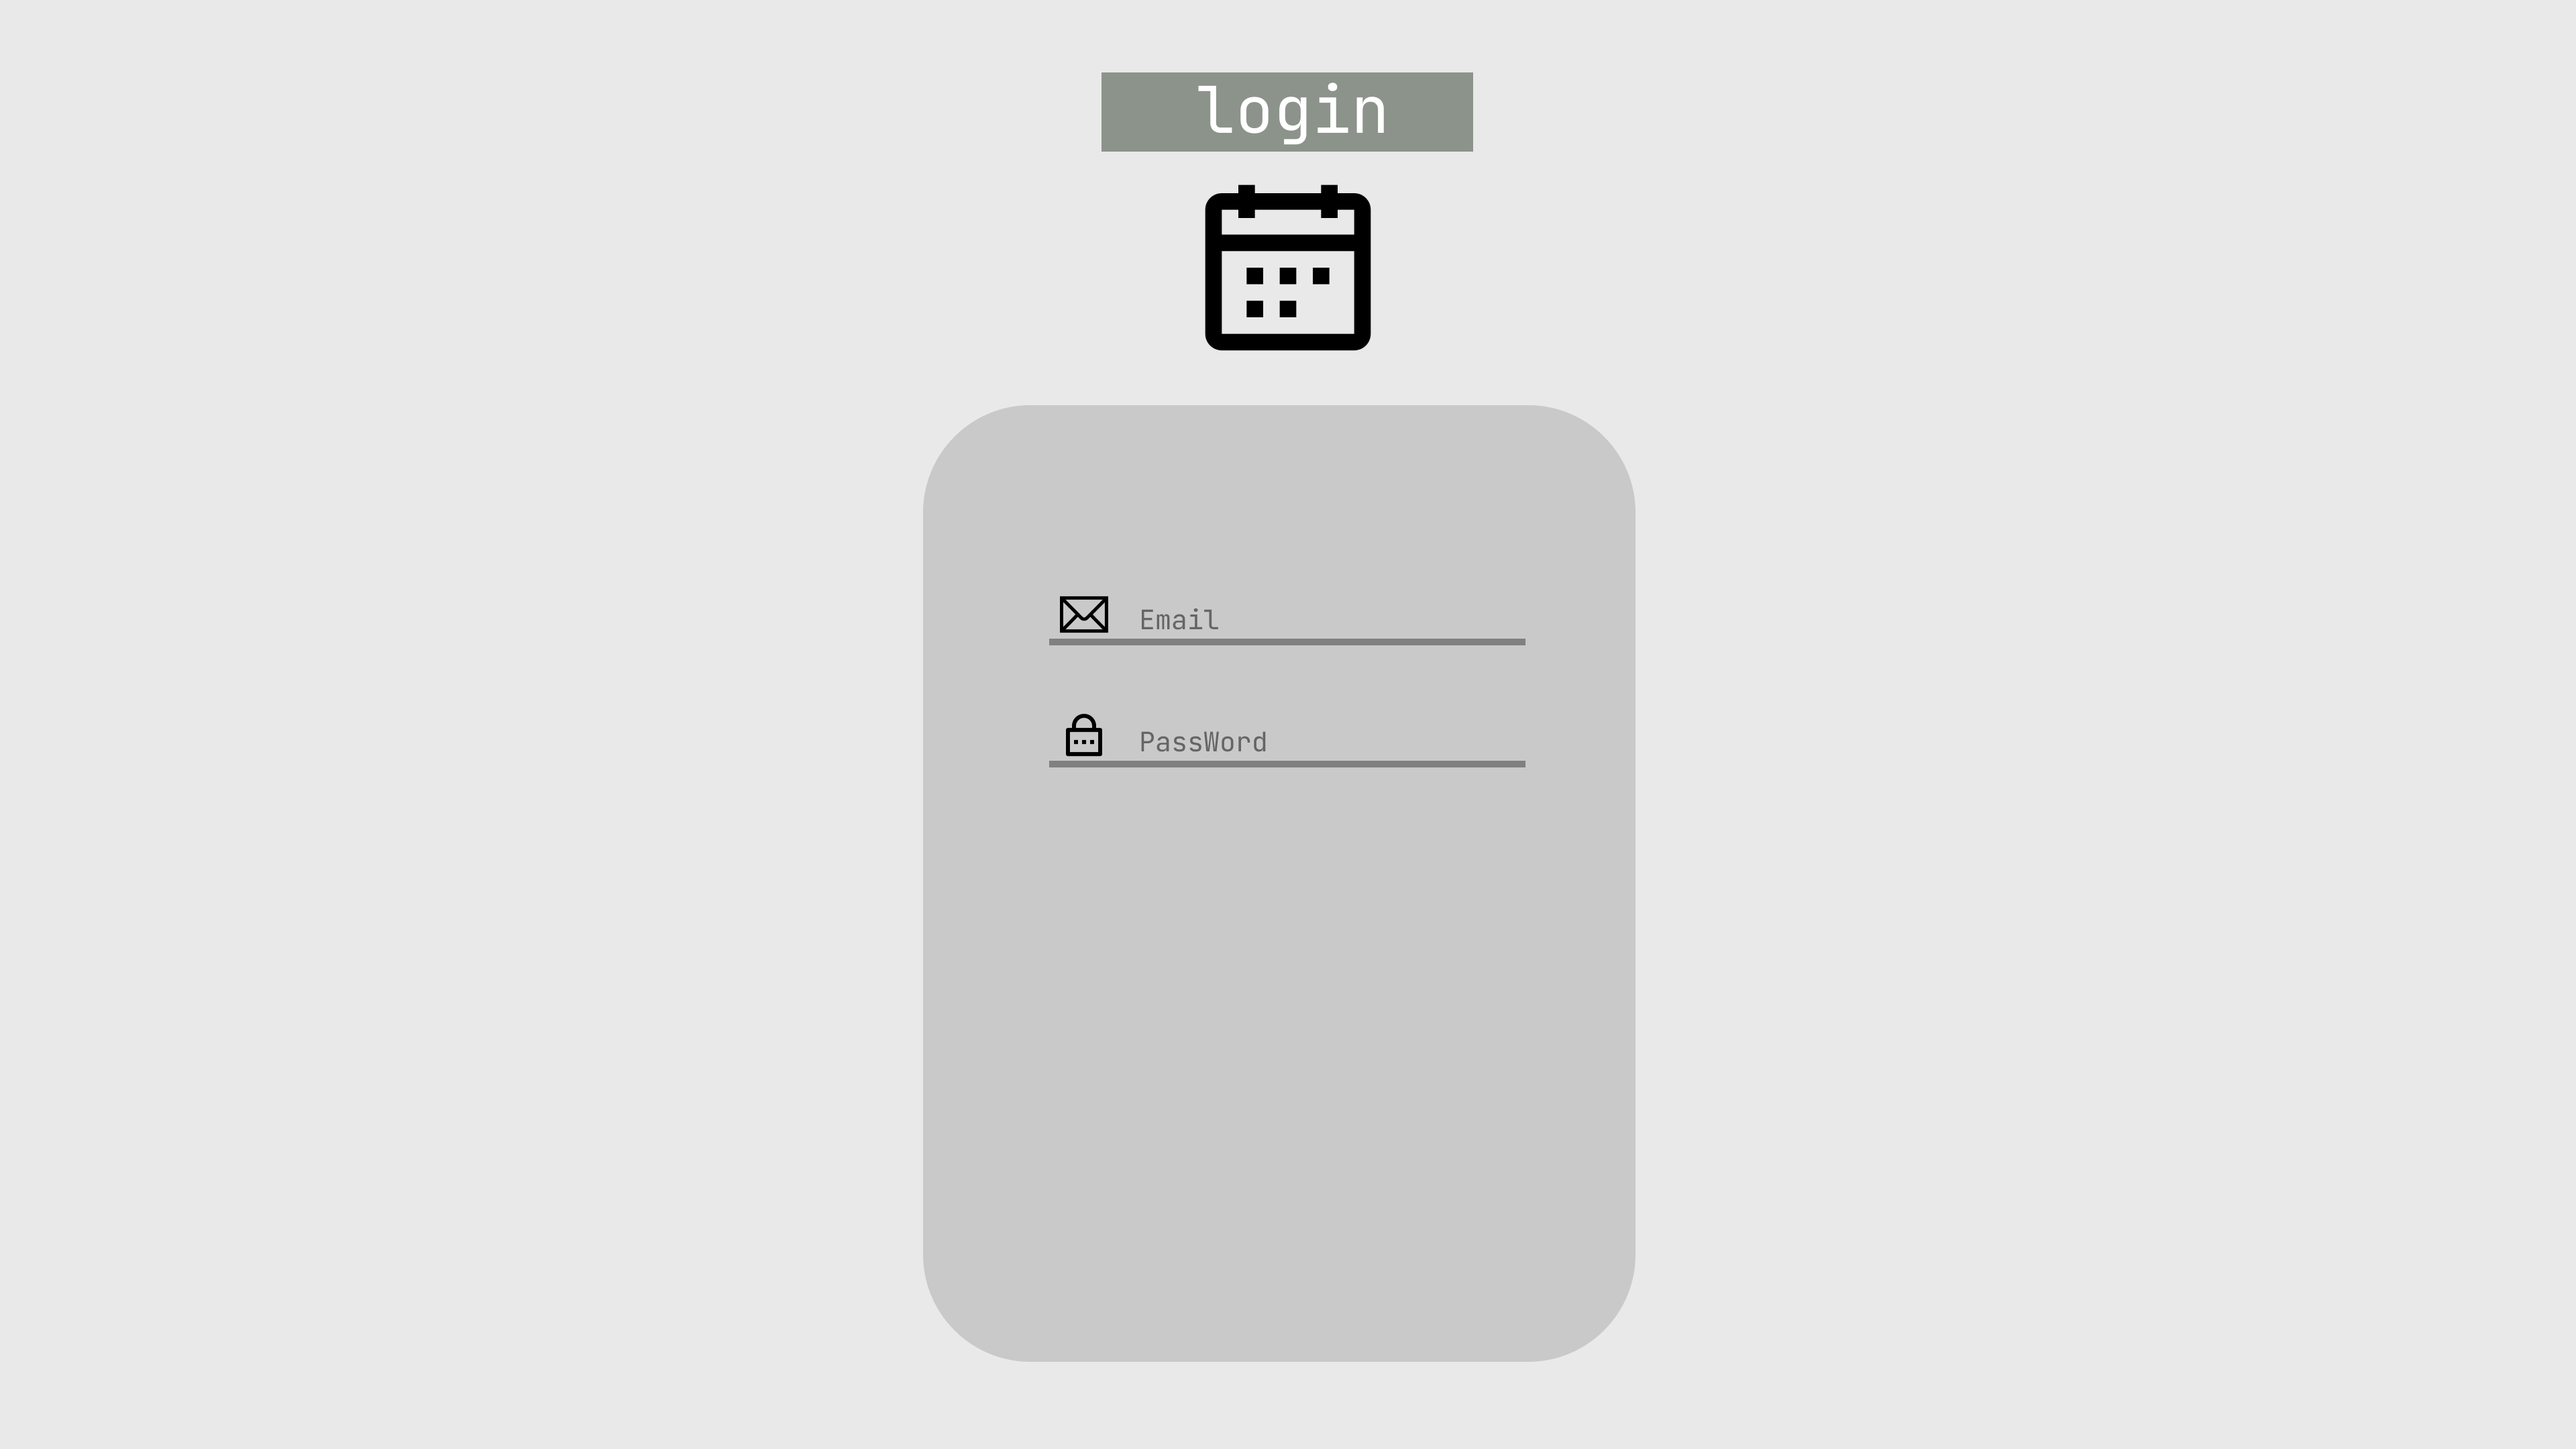
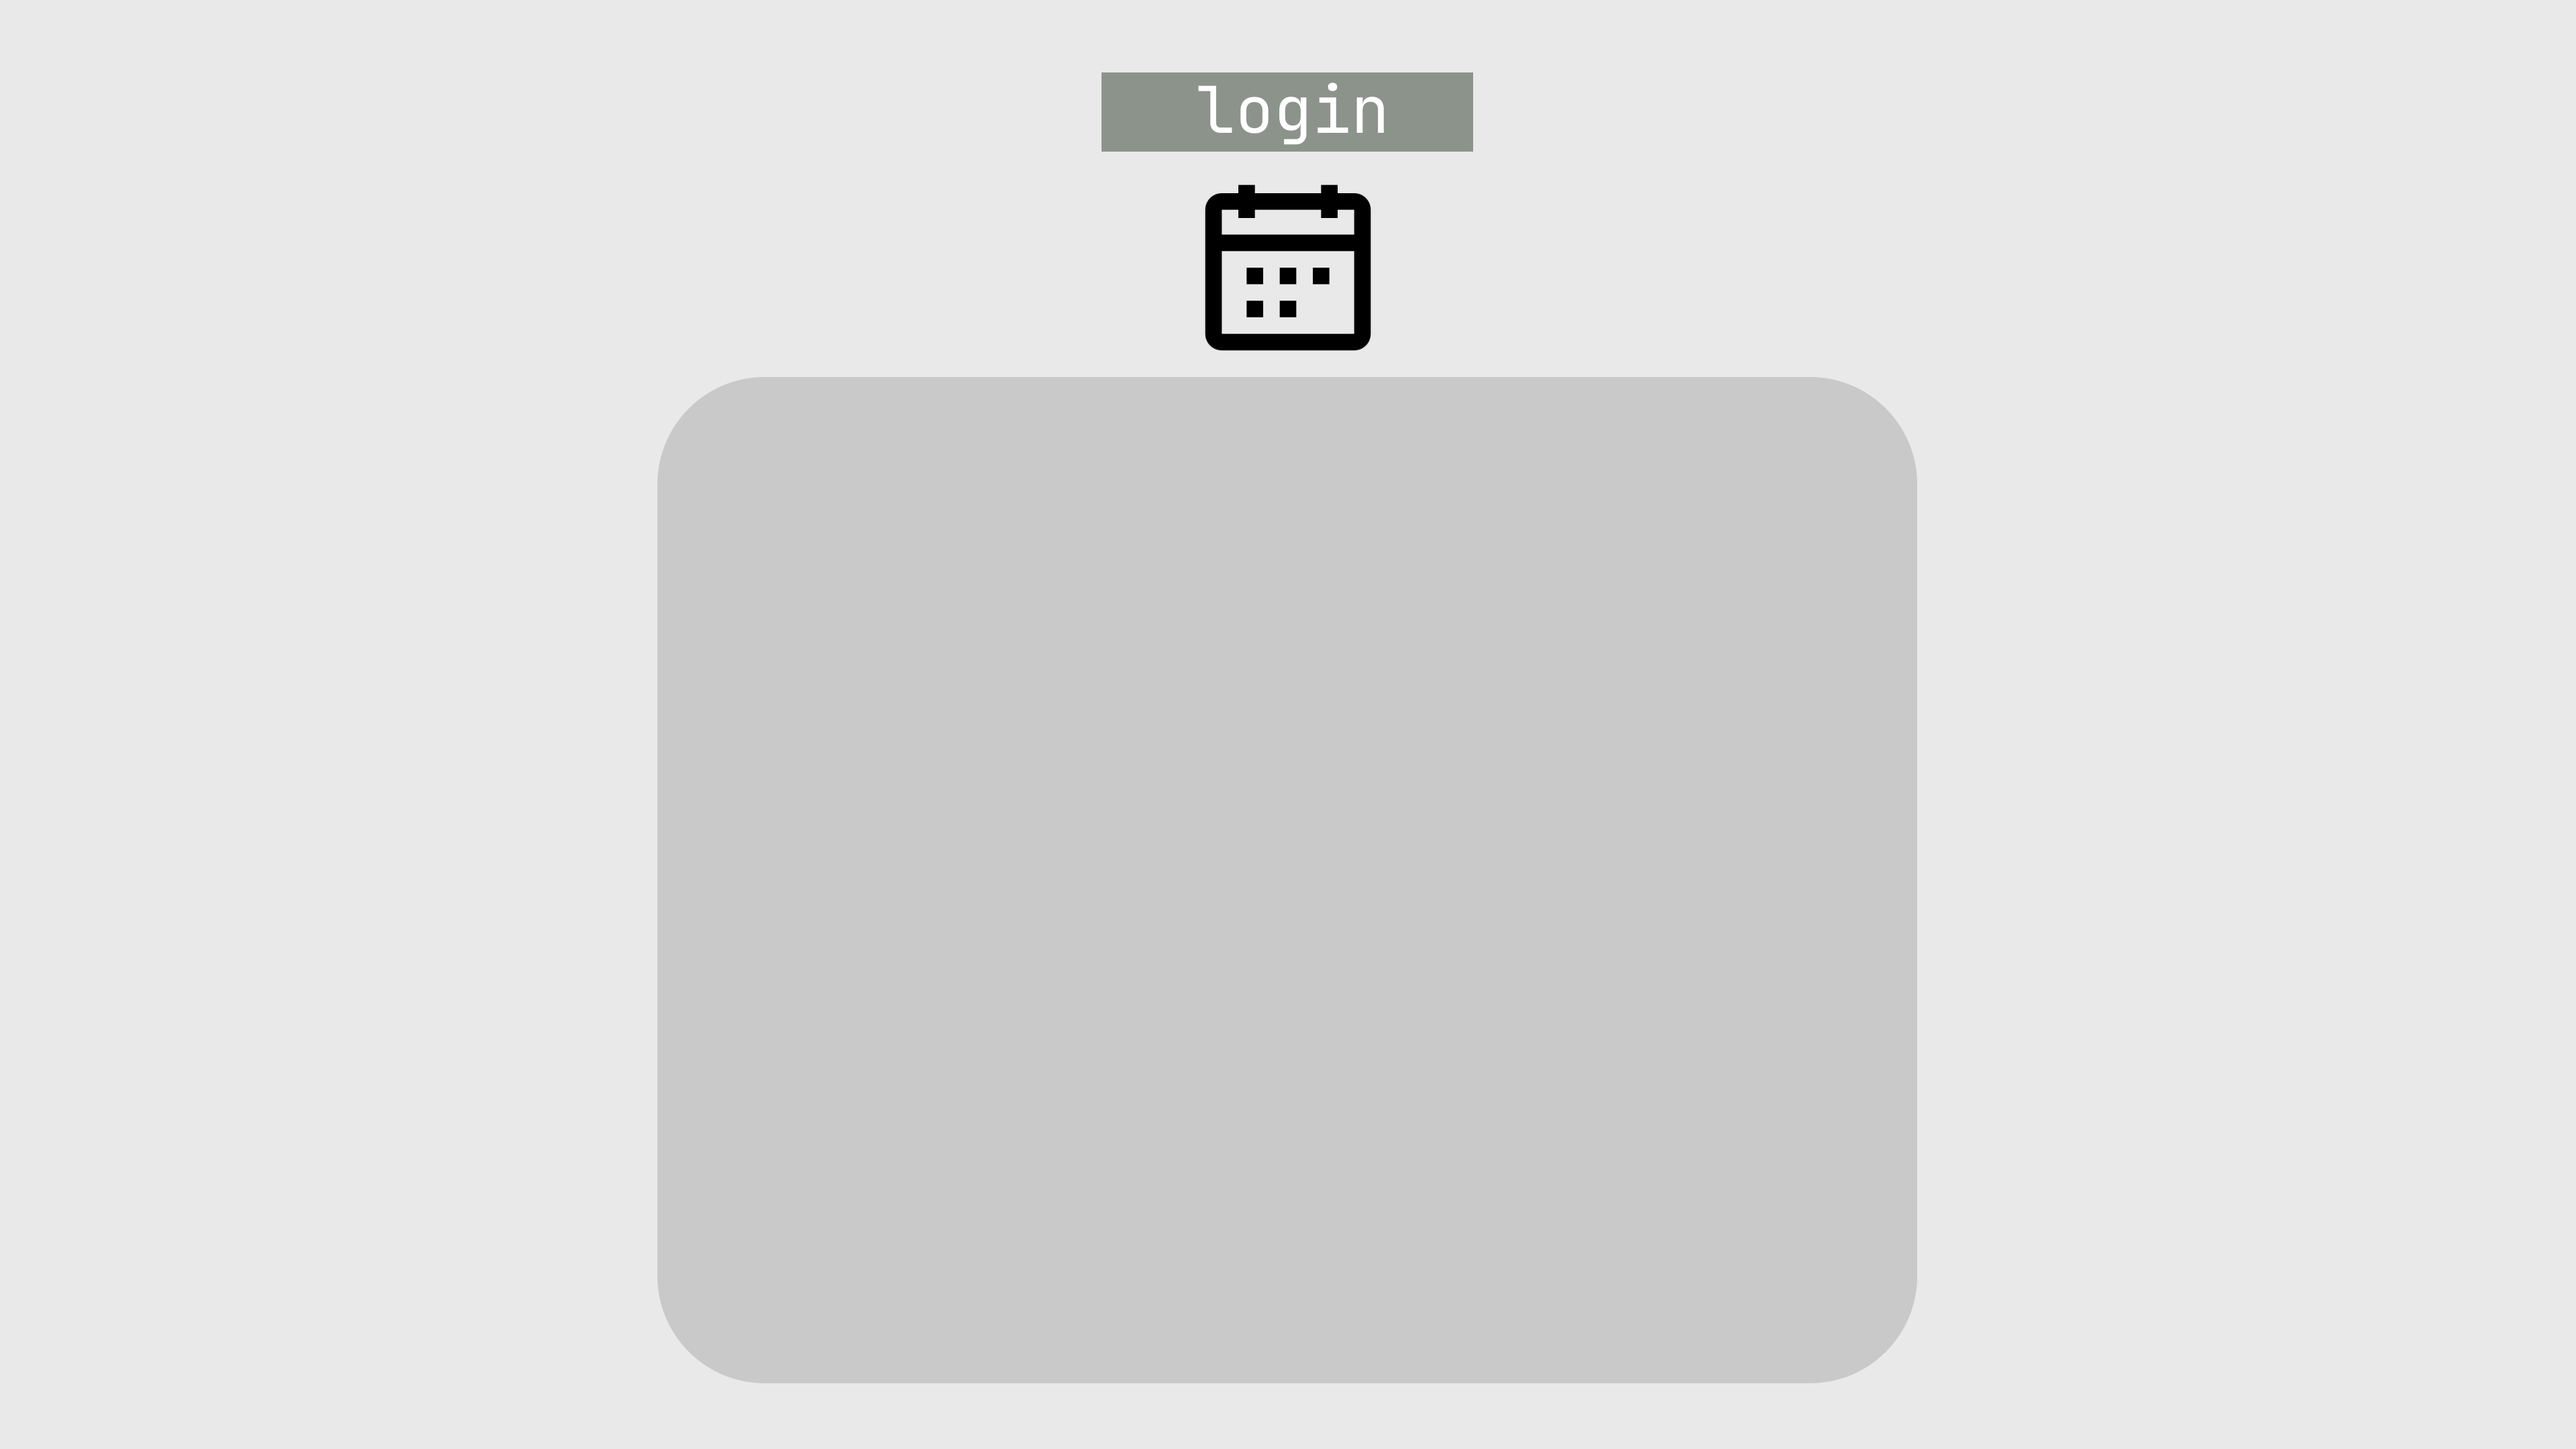
commit3

Changed region(s): [[0.25, 0.2481, 0.75, 0.9616], [0.4062, 0.4032, 0.5938, 0.4653], [0.4062, 0.4963, 0.5, 0.5273]]

diff --git a/JAVA_PROJECT/src/com/companyPort/UserView_login.java b/JAVA_PROJECT/src/com/companyPort/UserView_login.java
@@ -8,13 +8,14 @@ import javax.swing.ImageIcon;
 import javax.swing.JButton;
 import javax.swing.JFrame;
 import javax.swing.JLabel;
+import javax.swing.JPanel;
 
 public class UserView_login {
 	
 	//멤버변수
 	JFrame frame;
 	JLabel label;
-	JButton [] btns;
+	JButton [] btns_login;
 	ImageIcon icon;
 	//생성자
 
@@ -24,17 +25,17 @@ public class UserView_login {
 		
 		//이미지 크기조절
 		Image img = icon.getImage();
-		Image changeimg = img.getScaledInstance(500, 400, Image.SCALE_SMOOTH);
+		Image changeimg = img.getScaledInstance(700, 500, Image.SCALE_SMOOTH);
 		ImageIcon changeicon = new ImageIcon(changeimg);
 		label = new JLabel(changeicon);
 		
 		//label = new JLabel(icon);
-		btns = new JButton[]{ new JButton("Login"),new JButton("Sign-In") };
+		btns_login = new JButton[]{ new JButton("Login"),new JButton("API로그인") };
 		//배경, 폰트색상, 사이즈
-		for(int i=0; i<btns.length; i++) {
-			btns[i].setBackground(Color.gray); 
-			btns[i].setForeground(Color.white);
-			btns[i].setFont(new Font(Font.DIALOG, Font.BOLD,15));
+		for(int i=0; i<btns_login.length; i++) {
+			btns_login[i].setBackground(Color.gray); 
+			btns_login[i].setForeground(Color.white);
+			btns_login[i].setFont(new Font(Font.DIALOG, Font.BOLD,15));
 			//btns[i].setPreferredSize(new Dimension(100,60));
 			
 		}	
@@ -44,13 +45,17 @@ public class UserView_login {
 		//frame.setLayout(new GridLayout(3,1));
 		frame.setLayout(null);
 		frame.setResizable(false); //움직이지마라
-		label.setBounds(0,0,500,400); //배치
-		btns[0].setBounds(200,250,100,50);
-		btns[1].setBounds(200,330,100,50);
+		label.setBounds(0,0,600,500); //배치
+		JLabel l_id = new JLabel("ID >");
+		l_id.setBounds(100,150,100,50);
+
+		btns_login[0].setBounds(250,320,100,50);
+		btns_login[1].setBounds(250,400,100,50); //api부분
 		frame.add(label); //이미지
-		frame.add(btns[0]); //버튼1 로그인
-		frame.add(btns[1]); //버튼2 회원가입
-		frame.setSize(500,500); //크기
+		frame.add(l_id); //id입력창
+		frame.add(btns_login[0]); //버튼1 로그인
+		frame.add(btns_login[1]); //버튼2 회원가입
+		frame.setSize(600,600); //크기
 		frame.setVisible(true); //보이게...^^
 		frame.setDefaultCloseOperation(JFrame.EXIT_ON_CLOSE); //닫기 버튼
 		

diff --git a/JAVA_PROJECT/src/com/companyPort/UserView_intro.java b/JAVA_PROJECT/src/com/companyPort/UserView_intro.java
@@ -33,7 +33,7 @@ public class UserView_intro {
 		
 		//이미지 크기조절
 		Image img = icon.getImage();
-		Image changeimg = img.getScaledInstance(500, 400, Image.SCALE_SMOOTH);
+		Image changeimg = img.getScaledInstance(700, 500, Image.SCALE_SMOOTH);
 		ImageIcon changeicon = new ImageIcon(changeimg);
 		label = new JLabel(changeicon);
 		
@@ -55,13 +55,13 @@ public class UserView_intro {
 		//frame.setLayout(new GridLayout(3,1));
 		frame.setLayout(null);
 		frame.setResizable(false); //움직이지마라
-		label.setBounds(0,0,500,400); //배치
-		btns[0].setBounds(200,250,100,50);
-		btns[1].setBounds(200,330,100,50);
+		label.setBounds(0,0,600,500); //배치
+		btns[0].setBounds(250,320,100,50);
+		btns[1].setBounds(250,400,100,50);
 		frame.add(label); //이미지
 		frame.add(btns[0]); //버튼1 로그인
 		frame.add(btns[1]); //버튼2 회원가입
-		frame.setSize(500,500); //크기
+		frame.setSize(600,600); //크기
 		frame.setVisible(true); //보이게...^^
 		frame.setDefaultCloseOperation(JFrame.EXIT_ON_CLOSE); //닫기 버튼
 		

diff --git a/JAVA_PROJECT/src/com/companyPort/UserMain.java b/JAVA_PROJECT/src/com/companyPort/UserMain.java
@@ -13,6 +13,7 @@ import java.util.ArrayList;
 		
 	List<UserInfo>	UserView_intro	controller
 					UserView_crud	[] process
+					UserView_login
 */
 
 public class UserMain {
@@ -38,18 +39,17 @@ public class UserMain {
 	}
 	
 	// 행위 - 기능 - 멤버함수
-	public void login() {
-		intro.btns[0].addActionListener(new ActionListener() {
+	
+	public void intro() { 
+		intro.btns[0].addActionListener(new ActionListener() { //로그인 버튼
 			@Override
 			public void actionPerformed(ActionEvent e) {
 				intro.frame.dispose();//현재창 끄고
 				login.show();//로그인 창 열기
 			}	
 		});
-	}
-	
-	public void intro() { 
-		intro.btns[1].addActionListener(new ActionListener() {
+		
+		intro.btns[1].addActionListener(new ActionListener() { //회원가입 버튼
 			@Override
 			public void actionPerformed(ActionEvent e) {
 				intro.frame.dispose();//현재창 끄고
@@ -57,6 +57,8 @@ public class UserMain {
 				member();
 			}	
 		});
+		
+		
 	}
 	public void member() { 
 		crud.button[0].addActionListener(new ActionListener() {

diff --git a/JAVA_PROJECT/src/com/companyPort/UserView_crud.java b/JAVA_PROJECT/src/com/companyPort/UserView_crud.java
@@ -67,7 +67,7 @@ public class UserView_crud {
 		for(int i = 0; i<button.length; i++) {
 			panel.add(button[i]);
 		}
-		frame.setSize(400,300);
+		frame.setSize(600,600);
 		frame.setVisible(true);
 		frame.setDefaultCloseOperation(JFrame.EXIT_ON_CLOSE);
 	}
